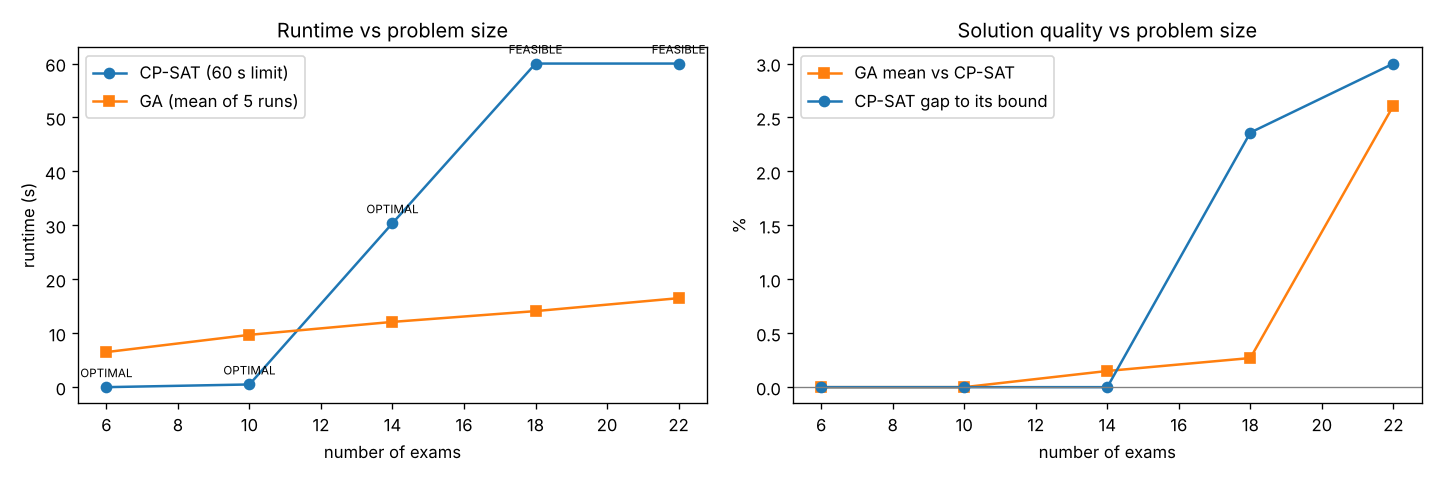
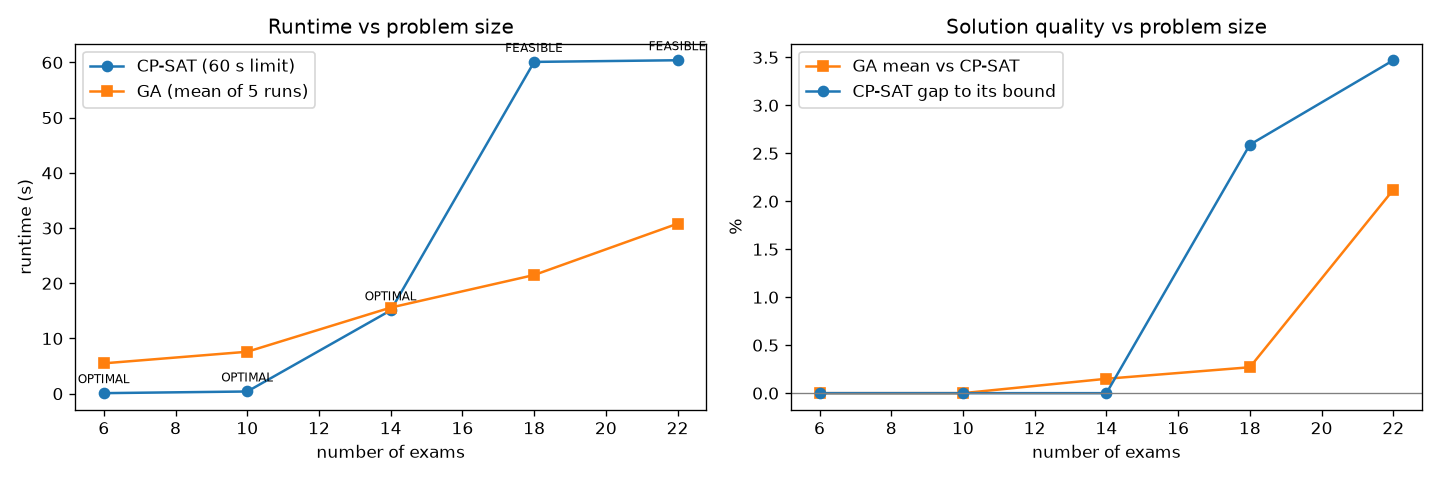
readme file code descriptions added

diff --git a/src/cpsat_solver.py b/src/cpsat_solver.py
@@ -1,25 +1,3 @@
-"""Exact method: Constraint Programming with OR-Tools CP-SAT (0-1 / ILP-style model).
-
-Sets: exams E, periods P (= days D x sessions S), rooms R.  s_ij = students shared by exams i, j.
-
-Decision variables
-  x[e,p]    in {0,1}   exam e is held in period p
-  z[e,d]    in {0,1}   exam e is held on day d          (z[e,d] = sum_s x[e, dS+s])
-  y[e,r]    in {0,1}   room r is used for exam e
-  sd[i,j]   in {0,1}   exams i, j are on the same day            (only for s_ij > 0)
-  adj[i,j]  in {0,1}   exams i, j are in consecutive sessions    (only for s_ij > 0)
-
-Constraints
-  (C1) sum_p x[e,p] = 1                                  each exam scheduled exactly once
-  (H1) x[i,p] + x[j,p] <= 1                for s_ij > 0  no student sits two exams at once
-  (H2) x[i,p] + x[j,p] + y[i,r] + y[j,r] <= 3  for s_ij = 0  exams sharing a period don't share a room
-  (H3) sum_r cap_r * y[e,r] >= size_e                    enough seats
-  (L1) z[i,d] + z[j,d] - 1 <= sd[i,j]                    same day  -> sd = 1
-  (L2) x[i,p] + x[j,p+1] - 1 <= adj[i,j]  (and i<->j)    back-to-back on the same day -> adj = 1
-
-Objective (identical to evaluate.py)
-  min  sum_{i<j} s_ij * (W_SAMEDAY * sd[i,j] + (W_B2B - W_SAMEDAY) * adj[i,j])  +  W_ROOM * sum y
-"""
 import time
 from itertools import combinations
 

diff --git a/src/evaluate.py b/src/evaluate.py
@@ -1,19 +1,3 @@
-"""Shared objective + feasibility check, used by BOTH solvers so their results are comparable.
-
-A solution is: period[e] (int) and rooms[e] (list of room indices) for every exam e.
-
-Hard constraints (must be 0 for a feasible timetable)
-  H1 student clash   : a student has two exams in the same period
-  H2 room clash      : a room is used by two exams in the same period
-  H3 capacity        : seats in the rooms given to an exam < students enrolled
-
-Soft objective (minimise)
-  proximity = sum over exam pairs (i, j) sharing s_ij students that sit on the same day:
-                 W_B2B     * s_ij   if they are in consecutive sessions (back-to-back)
-                 W_SAMEDAY * s_ij   otherwise (same day, with a gap)
-  rooms_used = total rooms opened (each room needs an invigilator)
-  total = proximity + W_ROOM * rooms_used
-"""
 from collections import defaultdict
 
 W_B2B = 3

diff --git a/src/ga_solver.py b/src/ga_solver.py
@@ -1,16 +1,3 @@
-"""Heuristic method: Genetic Algorithm with DEAP.
-
-Encoding : a permutation of the P period indices; exam e is placed in period ind[e].
-           Every exam therefore gets its own period, so student clashes (H1) can never occur.
-           This fits the data: every pair of courses shares students, so no two exams could
-           share a period anyway.
-Decoding : rooms are assigned greedily per period - largest free rooms first until the
-           exam's students are seated. This uses the fewest rooms for that exam.
-Fitness  : evaluate.py's total (proximity + W_ROOM * rooms), plus a big penalty for any
-           hard-constraint violation (never triggered with this encoding, kept as a guard).
-Operators: ordered crossover (cxOrdered), swap mutation (mutShuffleIndexes),
-           tournament selection (k=3), elitism via HallOfFame.
-"""
 import random
 import time
 

diff --git a/README.md b/README.md
@@ -33,3 +33,63 @@ Dataset
 
 Only `schedule.csv` (who takes which course) and `classrooms.csv` (room capacities) drive the model.
 The existing `classroom_id`/`timeslot_id` columns in `schedule.csv` are the teaching timetable, not exams, so we ignore them.
+
+## cpsat_solver.py
+
+"""Exact method: Constraint Programming with OR-Tools CP-SAT (0-1 / ILP-style model).
+
+Sets: exams E, periods P (= days D x sessions S), rooms R.  s_ij = students shared by exams i, j.
+
+Decision variables
+  x[e,p]    in {0,1}   exam e is held in period p
+  z[e,d]    in {0,1}   exam e is held on day d          (z[e,d] = sum_s x[e, dS+s])
+  y[e,r]    in {0,1}   room r is used for exam e
+  sd[i,j]   in {0,1}   exams i, j are on the same day            (only for s_ij > 0)
+  adj[i,j]  in {0,1}   exams i, j are in consecutive sessions    (only for s_ij > 0)
+
+Constraints
+  (C1) sum_p x[e,p] = 1                                  each exam scheduled exactly once
+  (H1) x[i,p] + x[j,p] <= 1                for s_ij > 0  no student sits two exams at once
+  (H2) x[i,p] + x[j,p] + y[i,r] + y[j,r] <= 3  for s_ij = 0  exams sharing a period don't share a room
+  (H3) sum_r cap_r * y[e,r] >= size_e                    enough seats
+  (L1) z[i,d] + z[j,d] - 1 <= sd[i,j]                    same day  -> sd = 1
+  (L2) x[i,p] + x[j,p+1] - 1 <= adj[i,j]  (and i<->j)    back-to-back on the same day -> adj = 1
+
+Objective (identical to evaluate.py)
+  min  sum_{i<j} s_ij * (W_SAMEDAY * sd[i,j] + (W_B2B - W_SAMEDAY) * adj[i,j])  +  W_ROOM * sum y
+"""
+
+## evaludate.py
+
+"""Shared objective + feasibility check, used by BOTH solvers so their results are comparable.
+
+A solution is: period[e] (int) and rooms[e] (list of room indices) for every exam e.
+
+Hard constraints (must be 0 for a feasible timetable)
+  H1 student clash   : a student has two exams in the same period
+  H2 room clash      : a room is used by two exams in the same period
+  H3 capacity        : seats in the rooms given to an exam < students enrolled
+
+Soft objective (minimise)
+  proximity = sum over exam pairs (i, j) sharing s_ij students that sit on the same day:
+                 W_B2B     * s_ij   if they are in consecutive sessions (back-to-back)
+                 W_SAMEDAY * s_ij   otherwise (same day, with a gap)
+  rooms_used = total rooms opened (each room needs an invigilator)
+  total = proximity + W_ROOM * rooms_used
+"""
+
+## ga_solver.py
+
+"""Heuristic method: Genetic Algorithm with DEAP.
+
+Encoding : a permutation of the P period indices; exam e is placed in period ind[e].
+           Every exam therefore gets its own period, so student clashes (H1) can never occur.
+           This fits the data: every pair of courses shares students, so no two exams could
+           share a period anyway.
+Decoding : rooms are assigned greedily per period - largest free rooms first until the
+           exam's students are seated. This uses the fewest rooms for that exam.
+Fitness  : evaluate.py's total (proximity + W_ROOM * rooms), plus a big penalty for any
+           hard-constraint violation (never triggered with this encoding, kept as a guard).
+Operators: ordered crossover (cxOrdered), swap mutation (mutShuffleIndexes),
+           tournament selection (k=3), elitism via HallOfFame.
+"""
